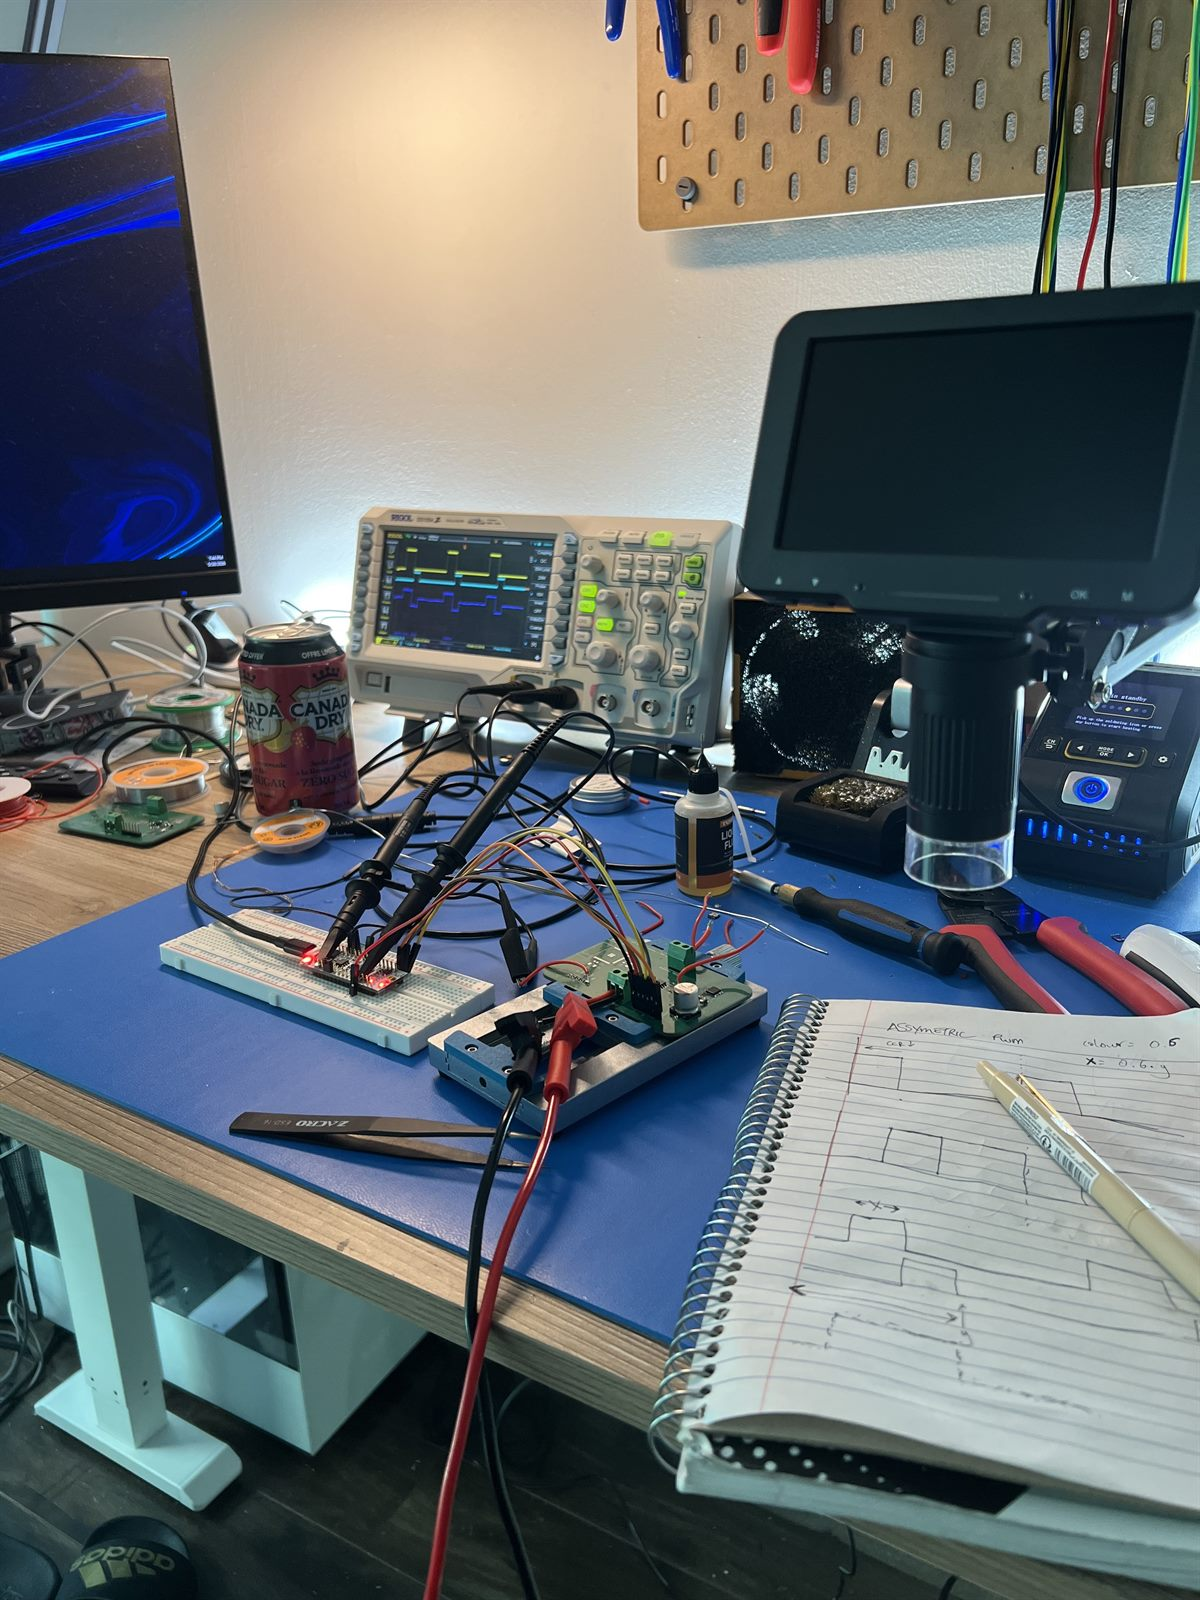
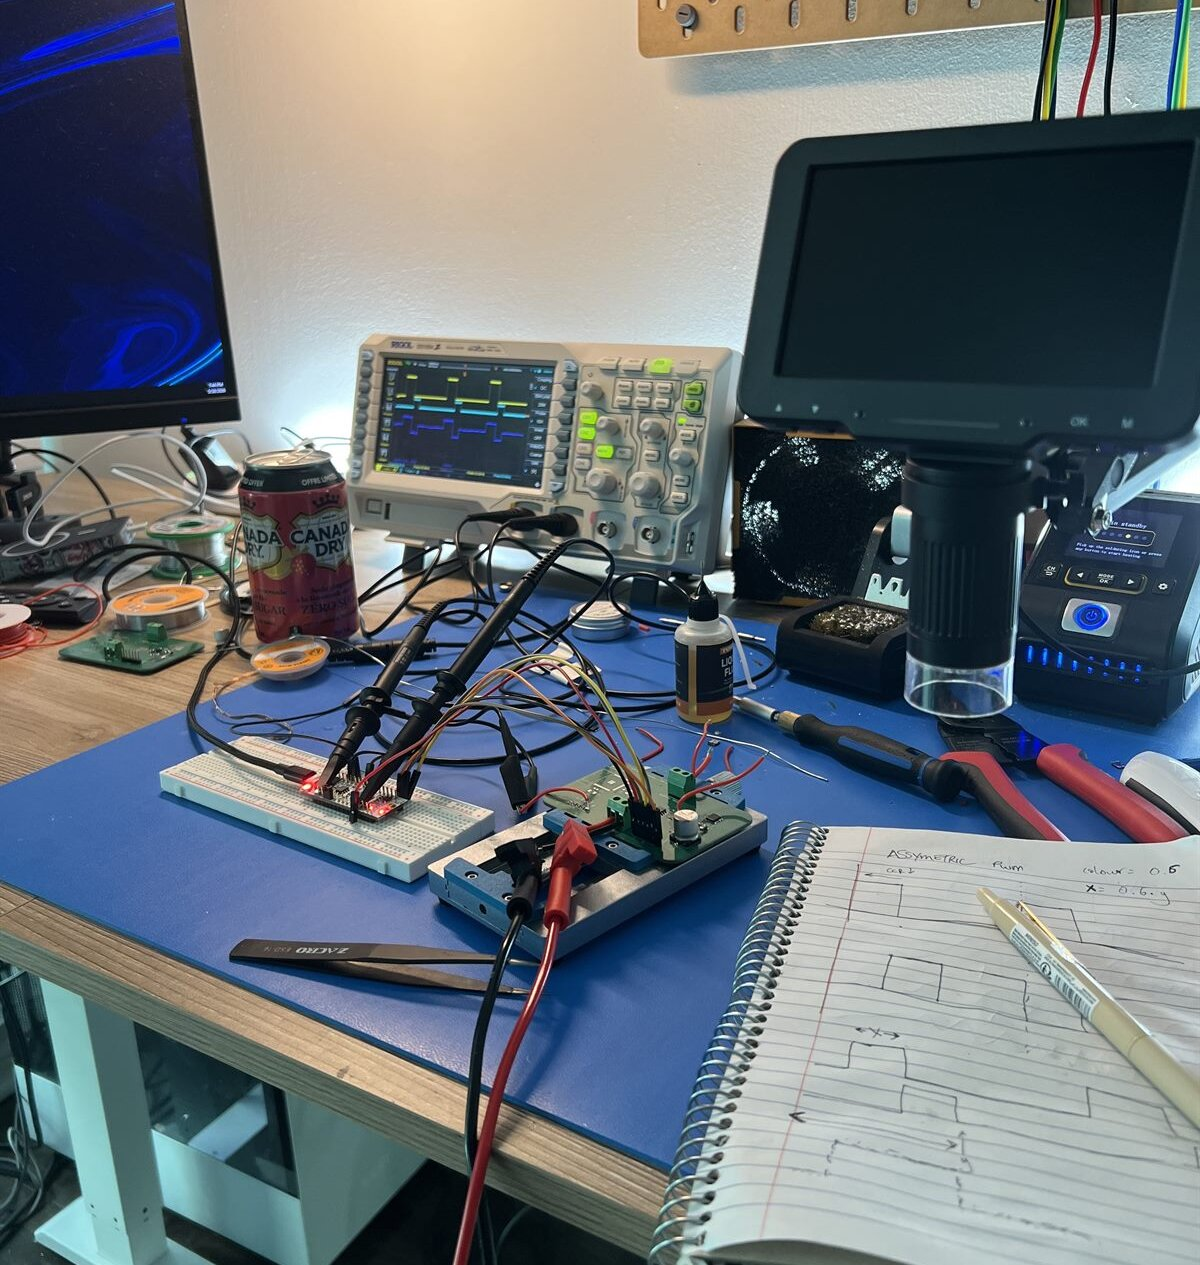
microscope shot of the trace issue, crop the bench photo

diff --git a/README.md b/README.md
@@ -130,7 +130,7 @@ I hand-assembled Version 1, QFN gate driver and all, and brought it up on the be
 **A trace too close to a FET pad.** V1 ran a thin trace right up against an inner MOSFET pad, which caused solder bridges during assembly. I ended up chasing those down under the microscope.
 
 <p align="center">
-  <img src="media/IMAGES/fault_trace_fet_pad_short.jpg" width="600" alt="V1 layout: trace routed too close to FET pad, causing shorts">
+  <img src="media/IMAGES/fault_trace_fet_pad_short.jpg" width="700" alt="Microscope view of the Q2 pad: trace routed too close, causing solder bridges">
 </p>
 
 **Probing a live switch node killed the driver.** While I was capturing SHA/SHB waveforms on the working V1 board, the gate driver died, almost certainly from a momentary probe or ground-clip short on a live switch node. The rework to replace it bridged, and pulling the dead part lifted the QFN pads with it. What I took from it: use spring-tip probe grounds, current-limit the first power-up, and leave the risky measurements for last, once the photos are already taken.
